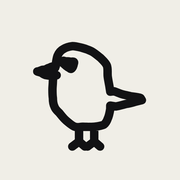
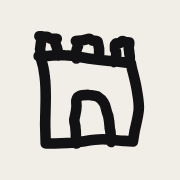
Rebrand the app as keep club

Changed region(s): [[0.1667, 0.1667, 0.8333, 0.8611]]

diff --git a/misc/munin/doodles-munin.js b/misc/munin/doodles-munin.js
@@ -1,12 +1,12 @@
-/* The shell's own doodles, drawn through the same rough.py pipeline as every
- * course set. `tower` is keep club's mark; the remaining fourteen ravens stay
- * as the doodle vocabulary for sections, groups, imported decks and the hoard.
+/* Munin's own doodles — the raven set, drawn through the same rough.py
+ * pipeline as every course set. Used by the shelf, by the hoard's own
+ * defaults, and as the theme for any course that brings no drawings of its
+ * own. perch is the app mark.
  *
  * Generated by design/raven-doodles/build.py — do not edit; edit the clean
  * geometry there and re-run it.
  */
 const MUNIN_DOODLE = {
-  tower: 'M6.7 11.8C7.5 11.7 9.6 11.4 11.3 11.5C12.9 11.5 14.9 12 16.5 12.2C18.2 12.4 19.9 12.6 21.2 12.7L23.8 13L24 14C24.2 14.8 24.7 16.6 24.9 17.9C25.1 19.2 25.4 20.5 25.3 21.8C25.2 23.1 24.7 24.9 24.5 25.9L24.2 27.8L22.6 27.7C21.6 27.7 19.9 27.4 18.4 27.4C16.8 27.4 15 27.8 13.3 28C11.7 28.1 9.7 28.2 8.7 28.2L7.7 28.2L7.6 24.7C7.6 23.3 7.7 21.1 7.7 19.6C7.7 18.1 7.7 16.8 7.5 15.5C7.4 14.2 6.9 12.4 6.7 11.8C6.6 11.2 6 11.8 6.7 11.8ZM7 11.6C6.9 11.4 6.7 11 6.7 10.8C6.6 10.5 6.6 10.2 6.7 9.9C6.7 9.7 6.8 9.4 6.8 9.1C6.9 8.7 6.9 8.2 6.9 8L6.5 7.9L7 7.9C7.2 8 7.6 8 7.9 8C8.2 8.1 8.4 8.3 8.7 8.4L9.6 8.4L9.8 8.4C9.8 8.5 9.5 8.8 9.5 9.1C9.5 9.3 9.7 9.7 9.8 10C9.9 10.3 10 10.6 10 10.9C10.1 11.2 10.1 11.5 10.1 11.6M13.5 12.1C13.5 11.9 13.5 11.3 13.5 11C13.5 10.6 13.5 10.5 13.6 10.3C13.6 10.1 13.8 10 13.8 9.8C13.8 9.5 13.6 9.1 13.5 8.9L13.4 8.8L14.4 8.7C14.8 8.7 15.6 8.4 15.9 8.4C16.2 8.4 16.2 8.6 16.5 8.7L17.3 8.8L17.5 8.9C17.6 9.2 17.7 9.9 17.8 10.3C17.8 10.6 17.8 10.7 17.8 11C17.8 11.2 17.8 11.4 17.8 11.6C17.7 11.8 17.5 12.1 17.4 12.2M20.6 12.8C20.7 12.6 21 12 21 11.7C21.1 11.3 21 11.1 21 10.9C21 10.7 20.9 10.6 20.8 10.4C20.8 10.1 20.8 9.7 20.8 9.5L21 9.3L21.7 9.2C21.9 9.1 22 8.9 22.2 8.8C22.4 8.8 22.6 9 22.8 9L23.5 9.1L23.5 9.3C23.5 9.5 23.4 9.8 23.4 10.1C23.4 10.4 23.5 10.7 23.5 11C23.5 11.2 23.6 11.5 23.6 11.8C23.6 12 23.6 12.3 23.6 12.4M13.5 28.2C13.4 27.9 13.4 26.9 13.4 26.3C13.4 25.8 13.3 25.3 13.3 24.9C13.2 24.5 13.1 24.2 13.1 23.7C13.2 23.1 13.5 22 13.5 21.4C13.6 20.8 13.4 20.4 13.5 20C13.6 19.6 13.8 19.3 14.1 19.2C14.5 19 15.1 19 15.7 19C16.2 19.1 17 19.1 17.5 19.3C18 19.6 18.4 20 18.7 20.5C19 20.9 19.1 21.6 19.2 22C19.3 22.4 19.4 22.6 19.5 22.9C19.6 23.2 19.6 23.6 19.7 24C19.7 24.4 19.8 24.7 19.8 25.2C19.9 25.6 20 26.2 20 26.7C20.1 27.2 20 27.7 20.1 27.9',
   perch: 'M9.7 9.7C9.8 9.7 9.9 9.9 10 10C10.2 10.1 10.3 10.3 10.5 10.4C10.7 10.6 10.9 10.7 11.1 10.8C11.3 10.9 11.3 11 11.5 11C11.6 11 11.8 10.8 11.9 10.6C12 10.5 12 10.3 12.1 10.1C12.1 9.9 12.3 9.5 12.2 9.4C12.1 9.2 11.8 9.3 11.5 9.3C11.3 9.3 11.1 9.2 10.8 9.2C10.6 9.2 10.4 9.2 10.2 9.2C10 9.2 9.8 9 9.7 9.1C9.6 9.2 9.7 9.6 9.7 9.7C9.7 9.8 9.6 9.6 9.7 9.7Z M7.8 10.5C7.9 10.1 8 8.7 8.3 7.9C8.6 7.2 9.1 6.6 9.7 6.3C10.3 5.9 11.1 5.7 11.9 5.6C12.6 5.6 13.3 5.8 14.1 6C14.9 6.2 15.7 6.5 16.5 6.9C17.2 7.3 17.9 7.9 18.5 8.4C19.1 9 19.7 9.5 20 10.2C20.3 11 20.1 12 20.2 12.8C20.3 13.6 20.5 14.5 20.6 15.1L20.8 16.4L21.6 16.3C22.1 16.4 22.9 16.8 23.6 17C24.3 17.2 25 17.3 25.7 17.5C26.5 17.6 27.5 17.7 28 17.9L28.3 18.4L26.7 18.8C26.1 19 25.4 19.2 24.6 19.3C23.8 19.5 22.7 19.8 22.1 19.9L20.8 19.7L20.8 20.5C20.7 21.1 20.5 22.2 20.2 22.8C20 23.4 19.8 23.8 19.3 24.2C18.7 24.5 17.9 24.6 17.1 24.7C16.3 24.8 15.1 24.7 14.3 24.7C13.5 24.7 13.1 25 12.4 24.7C11.8 24.5 11 23.8 10.3 23.2C9.7 22.7 9.2 22 8.7 21.4C8.2 20.9 7.8 20.6 7.6 20C7.3 19.4 7.2 18.6 7.2 17.9C7.1 17.3 7.1 16.6 7.1 15.9C7.1 15.2 7.2 14.6 7.2 13.9C7.3 13.2 7.3 12.4 7.3 11.8L7.7 10.3L7.8 10.5C7.8 10.6 7.7 11 7.8 10.5ZM7.9 10.3C7.8 10.3 7.2 10.4 6.9 10.5C6.6 10.6 6.4 10.7 6.1 10.8C5.9 10.9 5.7 11 5.5 11.1C5.3 11.2 5.1 11.2 4.8 11.2L3.7 11.6L3.5 11.6C3.7 11.7 4.2 11.8 4.4 11.9C4.7 12 4.9 12.3 5.3 12.4C5.6 12.5 5.9 12.5 6.3 12.6C6.6 12.6 7.1 12.6 7.4 12.6C7.7 12.6 8 12.5 8.1 12.5M13.4 25L13.4 28.2M17 25L17 28.2M13.4 28.2L11.8 29.4M13.4 28.2L14.8 29.4M17 28.2L15.4 29.4M17 28.2L18.4 29.4',
   peek: 'M14.6 10.3C14.6 10.4 14.8 10.6 15 10.8C15.1 10.9 15.3 11.2 15.5 11.3C15.8 11.5 16.1 11.7 16.3 11.8C16.5 11.9 16.7 12 16.8 12C17 11.9 17.2 11.7 17.3 11.5C17.4 11.3 17.5 11.1 17.5 10.8C17.6 10.6 17.7 10.2 17.6 10C17.5 9.9 17.1 9.9 16.9 9.9C16.6 9.8 16.3 9.7 16 9.7C15.8 9.7 15.4 9.7 15.2 9.7C15 9.7 14.7 9.5 14.6 9.6C14.5 9.7 14.6 10.2 14.6 10.3C14.6 10.5 14.5 10.3 14.6 10.3Z M4.2 15.2C5 15 7.4 14.1 9 14C10.6 13.9 12.2 14.4 13.9 14.7C15.5 15.1 17.5 15.8 19 16C20.6 16.3 21.9 16.2 23.3 16.2L27.4 15.6L27.5 15.7C27.7 16.3 28.6 18 28.6 19.4C28.6 20.8 27.8 23 27.4 24.1L26.6 26.4L24.8 26.4C23.9 26.4 22.6 26.2 21.2 26.1C19.7 26.1 18 26.2 16.3 26.3C14.6 26.3 12.8 26.4 11.2 26.5C9.6 26.6 7.8 26.5 6.7 26.6L4.7 27.1L4.4 24.5C4.4 23.3 4.3 21.3 4.3 19.8C4.2 18.2 4.2 16 4.2 15.2C4.2 14.5 3.4 15.4 4.2 15.2ZM9.8 18.3C9.9 18.3 10.2 18.3 10.6 18.3C10.9 18.3 11.2 18.4 11.6 18.5C12 18.5 12.4 18.6 12.8 18.7C13.2 18.7 13.6 18.7 13.9 18.8C14.2 18.9 14.3 19.1 14.6 19.2C14.8 19.3 15.1 19.5 15.4 19.6C15.8 19.8 16.2 19.9 16.6 20.1C16.9 20.3 17.2 20.6 17.6 20.7C17.9 20.9 18.3 21 18.7 21C19.1 21.1 19.7 21.1 19.9 21.1M9.3 21.7C9.4 21.6 9.7 21.3 10 21.3C10.3 21.3 10.5 21.4 10.8 21.5C11.1 21.6 11.5 21.8 11.7 21.9C11.9 22 12 22.1 12.2 22.1C12.3 22.2 12.6 22.2 12.8 22.2C13.1 22.2 13.3 22.3 13.6 22.2C14 22.2 14.5 21.9 14.8 21.9C15 22 14.8 22.2 15 22.3C15.2 22.4 15.5 22.5 15.7 22.5C16 22.6 16.5 22.7 16.7 22.7M12.3 14.9C12.3 14.4 12.2 13.1 12.2 12.4C12.3 11.6 12.3 10.9 12.5 10.3C12.7 9.6 13.1 9 13.6 8.5C14.1 7.9 14.8 7.3 15.6 6.9C16.3 6.6 17.4 6.3 18.3 6.3C19.2 6.3 20.2 6.5 20.9 6.9C21.6 7.2 22 7.8 22.4 8.4C22.8 9.1 22.9 10.1 23.1 10.9C23.4 11.8 23.6 12.6 23.8 13.4C24 14.2 24.2 15.4 24.3 15.8M12.4 9.3C12.2 9.3 11.7 9.2 11.3 9.2C10.9 9.3 10.5 9.5 10.2 9.6C9.8 9.8 9.3 10.2 9.1 10.2C8.8 10.3 8.9 9.9 8.6 9.9L7.7 10.2L7.6 10.3C7.8 10.4 8.3 10.6 8.6 10.6C9 10.7 9.4 10.6 9.7 10.7C10 10.7 10.3 10.9 10.5 11.1C10.8 11.2 10.9 11.5 11.2 11.6C11.6 11.7 12.2 11.6 12.4 11.6',
   flap: 'M10.8 16.6C10.9 16.7 11 16.8 11.2 16.9C11.3 17 11.4 17.2 11.6 17.4C11.7 17.5 12 17.7 12.1 17.8C12.3 18 12.4 18.1 12.5 18.1C12.6 18.1 12.7 17.9 12.8 17.8C12.9 17.7 12.9 17.5 12.9 17.3C13 17.1 13.1 16.7 13 16.6C12.9 16.5 12.6 16.6 12.3 16.5C12.1 16.5 11.9 16.4 11.7 16.3C11.5 16.3 11.2 16.3 11.1 16.3C10.9 16.2 10.8 16 10.7 16.1C10.7 16.1 10.8 16.5 10.8 16.6C10.8 16.7 10.7 16.6 10.8 16.6Z M9.1 18.2C9.2 17.9 9.6 16.8 10 16.4C10.3 15.9 10.7 15.6 11.1 15.4C11.6 15.2 12.2 15.2 12.8 15.2C13.4 15.2 13.9 15.4 14.6 15.5C15.3 15.6 16 15.7 16.8 15.9C17.5 16.1 18.2 16.3 19 16.6C19.7 16.8 20.5 16.9 21.1 17.2C21.7 17.6 22.1 18.2 22.6 18.6C23 19.1 23.4 19.5 23.9 19.9C24.3 20.2 24.8 20.5 25.3 20.7C25.8 20.9 26.4 20.7 26.8 20.8C27.3 20.9 27.9 21.3 28.2 21.4L28.6 21.7L27.4 21.8C26.9 21.9 26.1 22.3 25.4 22.5C24.8 22.7 24 22.8 23.6 22.9L23.3 22.9L22 23.8C21.5 24.1 21 24.2 20.4 24.3C19.8 24.4 19.2 24.5 18.6 24.6C17.9 24.6 17.2 24.9 16.6 24.9C15.9 24.9 15.4 24.9 14.7 24.6C14 24.4 13.2 24 12.5 23.5C11.8 23.1 10.9 22.3 10.4 21.8C9.9 21.2 10 20.8 9.7 20.2C9.5 19.6 9.2 18.5 9.1 18.2C8.9 17.9 8.9 18.5 9.1 18.2ZM9.1 18.2C8.9 18.3 8.2 18.4 7.8 18.6C7.5 18.7 7.1 18.9 6.8 19.1C6.4 19.2 6.1 19.4 5.7 19.6C5.4 19.8 5 19.9 4.6 20L3.3 20.5L3.2 20.5C3.4 20.5 4.1 20.5 4.5 20.5C4.9 20.5 5.2 20.7 5.6 20.7C6 20.8 6.4 20.7 6.9 20.7C7.3 20.7 7.8 20.7 8.1 20.6C8.5 20.6 8.8 20.6 8.9 20.6M12.4 15.2C12.1 14.9 11.4 13.7 11 13.1C10.6 12.4 10.3 11.9 10.1 11.4C9.9 10.8 9.9 10.4 9.8 9.8C9.8 9.1 9.6 8.4 9.7 7.7C9.8 7 10.1 6.1 10.2 5.6L10.5 4.8L11.8 5.7C12.1 6.2 12 7.3 12.2 8C12.4 8.8 12.7 9.5 12.9 10.2C13.1 10.9 13.4 11.5 13.6 12.2C13.8 13 14.1 14.2 14.2 14.6M18.4 16.8C18.6 16.4 19.3 15.3 19.5 14.5C19.8 13.8 19.9 13.2 19.9 12.5C20 11.9 20 11.4 19.9 10.7C19.9 10.1 19.8 9.4 19.7 8.6C19.6 7.9 19.3 6.9 19.2 6.4L19 5.6L18 6.5C17.7 7 17.4 7.8 17.2 8.5C16.9 9.2 16.7 9.9 16.6 10.6C16.5 11.3 16.6 12.1 16.6 12.8C16.6 13.5 16.7 14.5 16.7 14.8',

diff --git a/web/index.html b/web/index.html
@@ -6,8 +6,8 @@
 <!-- One tag, set from JS: the app's own light/dark/auto toggle has to win over
      the system preference here too, or the browser bar and the page disagree. -->
 <meta name="theme-color" id="theme-color" content="#f0eee7">
-<meta name="description" content="Munin — spaced repetition that doesn't make you learn the app first. Pick a course, keep your progress on your device.">
-<title>Munin</title>
+<meta name="description" content="keep club — spaced repetition that doesn't make you learn the app first. Pick a course, keep your progress on your device.">
+<title>keep club</title>
 <link rel="manifest" href="manifest.webmanifest">
 <link rel="icon" href="icon-192.png" sizes="192x192">
 <link rel="apple-touch-icon" sizes="180x180" href="icon-180.png">
@@ -15,7 +15,7 @@
 <meta name="mobile-web-app-capable" content="yes">
 <!-- The home-screen label. Without it iOS uses <title>, which is too long and
      gets elided to "RYA Day Ski…" under the icon. -->
-<meta name="apple-mobile-web-app-title" content="Munin">
+<meta name="apple-mobile-web-app-title" content="keep club">
 <!-- Deliberately `default`, not `black-translucent`. Since iOS 15 the standalone
      status bar takes its colour from `theme-color` above, which this app rewrites
      when you switch theme — so it already follows the paper into dark mode.
@@ -356,7 +356,7 @@
   <p class="lb-hint" id="lb-hint">Pinch or double-tap to zoom · drag to pan</p>
 </div>
 
-<!-- The loading screen. Munin's raven is the default scene and it is markup,
+<!-- The loading screen. keep club's tower is the default scene and it is markup,
      not something JavaScript fills in: this screen exists to cover the window
      before app.js has run, so anything drawn from app.js is drawn exactly too
      late. A course brings its own scene as courses/<id>/boot.html + boot.css,
@@ -367,7 +367,7 @@
   <div class="boot-scene" id="boot-scene" data-from="munin" aria-hidden="true">
     <svg class="boot-raven" viewBox="0 0 32 32" fill="none" stroke="currentColor"
       stroke-width="2" stroke-linecap="round" stroke-linejoin="round">
-      <path pathLength="1" d="M9.7 9.7C9.8 9.7 9.9 9.9 10 10C10.2 10.1 10.3 10.3 10.5 10.4C10.7 10.6 10.9 10.7 11.1 10.8C11.3 10.9 11.3 11 11.5 11C11.6 11 11.8 10.8 11.9 10.6C12 10.5 12 10.3 12.1 10.1C12.1 9.9 12.3 9.5 12.2 9.4C12.1 9.2 11.8 9.3 11.5 9.3C11.3 9.3 11.1 9.2 10.8 9.2C10.6 9.2 10.4 9.2 10.2 9.2C10 9.2 9.8 9 9.7 9.1C9.6 9.2 9.7 9.6 9.7 9.7C9.7 9.8 9.6 9.6 9.7 9.7Z M7.8 10.5C7.9 10.1 8 8.7 8.3 7.9C8.6 7.2 9.1 6.6 9.7 6.3C10.3 5.9 11.1 5.7 11.9 5.6C12.6 5.6 13.3 5.8 14.1 6C14.9 6.2 15.7 6.5 16.5 6.9C17.2 7.3 17.9 7.9 18.5 8.4C19.1 9 19.7 9.5 20 10.2C20.3 11 20.1 12 20.2 12.8C20.3 13.6 20.5 14.5 20.6 15.1L20.8 16.4L21.6 16.3C22.1 16.4 22.9 16.8 23.6 17C24.3 17.2 25 17.3 25.7 17.5C26.5 17.6 27.5 17.7 28 17.9L28.3 18.4L26.7 18.8C26.1 19 25.4 19.2 24.6 19.3C23.8 19.5 22.7 19.8 22.1 19.9L20.8 19.7L20.8 20.5C20.7 21.1 20.5 22.2 20.2 22.8C20 23.4 19.8 23.8 19.3 24.2C18.7 24.5 17.9 24.6 17.1 24.7C16.3 24.8 15.1 24.7 14.3 24.7C13.5 24.7 13.1 25 12.4 24.7C11.8 24.5 11 23.8 10.3 23.2C9.7 22.7 9.2 22 8.7 21.4C8.2 20.9 7.8 20.6 7.6 20C7.3 19.4 7.2 18.6 7.2 17.9C7.1 17.3 7.1 16.6 7.1 15.9C7.1 15.2 7.2 14.6 7.2 13.9C7.3 13.2 7.3 12.4 7.3 11.8L7.7 10.3L7.8 10.5C7.8 10.6 7.7 11 7.8 10.5ZM7.9 10.3C7.8 10.3 7.2 10.4 6.9 10.5C6.6 10.6 6.4 10.7 6.1 10.8C5.9 10.9 5.7 11 5.5 11.1C5.3 11.2 5.1 11.2 4.8 11.2L3.7 11.6L3.5 11.6C3.7 11.7 4.2 11.8 4.4 11.9C4.7 12 4.9 12.3 5.3 12.4C5.6 12.5 5.9 12.5 6.3 12.6C6.6 12.6 7.1 12.6 7.4 12.6C7.7 12.6 8 12.5 8.1 12.5M13.4 25L13.4 28.2M17 25L17 28.2M13.4 28.2L11.8 29.4M13.4 28.2L14.8 29.4M17 28.2L15.4 29.4M17 28.2L18.4 29.4"/>
+      <path pathLength="1" d="M6.7 11.8C7.5 11.7 9.6 11.4 11.3 11.5C12.9 11.5 14.9 12 16.5 12.2C18.2 12.4 19.9 12.6 21.2 12.7L23.8 13L24 14C24.2 14.8 24.7 16.6 24.9 17.9C25.1 19.2 25.4 20.5 25.3 21.8C25.2 23.1 24.7 24.9 24.5 25.9L24.2 27.8L22.6 27.7C21.6 27.7 19.9 27.4 18.4 27.4C16.8 27.4 15 27.8 13.3 28C11.7 28.1 9.7 28.2 8.7 28.2L7.7 28.2L7.6 24.7C7.6 23.3 7.7 21.1 7.7 19.6C7.7 18.1 7.7 16.8 7.5 15.5C7.4 14.2 6.9 12.4 6.7 11.8C6.6 11.2 6 11.8 6.7 11.8ZM7 11.6C6.9 11.4 6.7 11 6.7 10.8C6.6 10.5 6.6 10.2 6.7 9.9C6.7 9.7 6.8 9.4 6.8 9.1C6.9 8.7 6.9 8.2 6.9 8L6.5 7.9L7 7.9C7.2 8 7.6 8 7.9 8C8.2 8.1 8.4 8.3 8.7 8.4L9.6 8.4L9.8 8.4C9.8 8.5 9.5 8.8 9.5 9.1C9.5 9.3 9.7 9.7 9.8 10C9.9 10.3 10 10.6 10 10.9C10.1 11.2 10.1 11.5 10.1 11.6M13.5 12.1C13.5 11.9 13.5 11.3 13.5 11C13.5 10.6 13.5 10.5 13.6 10.3C13.6 10.1 13.8 10 13.8 9.8C13.8 9.5 13.6 9.1 13.5 8.9L13.4 8.8L14.4 8.7C14.8 8.7 15.6 8.4 15.9 8.4C16.2 8.4 16.2 8.6 16.5 8.7L17.3 8.8L17.5 8.9C17.6 9.2 17.7 9.9 17.8 10.3C17.8 10.6 17.8 10.7 17.8 11C17.8 11.2 17.8 11.4 17.8 11.6C17.7 11.8 17.5 12.1 17.4 12.2M20.6 12.8C20.7 12.6 21 12 21 11.7C21.1 11.3 21 11.1 21 10.9C21 10.7 20.9 10.6 20.8 10.4C20.8 10.1 20.8 9.7 20.8 9.5L21 9.3L21.7 9.2C21.9 9.1 22 8.9 22.2 8.8C22.4 8.8 22.6 9 22.8 9L23.5 9.1L23.5 9.3C23.5 9.5 23.4 9.8 23.4 10.1C23.4 10.4 23.5 10.7 23.5 11C23.5 11.2 23.6 11.5 23.6 11.8C23.6 12 23.6 12.3 23.6 12.4M13.5 28.2C13.4 27.9 13.4 26.9 13.4 26.3C13.4 25.8 13.3 25.3 13.3 24.9C13.2 24.5 13.1 24.2 13.1 23.7C13.2 23.1 13.5 22 13.5 21.4C13.6 20.8 13.4 20.4 13.5 20C13.6 19.6 13.8 19.3 14.1 19.2C14.5 19 15.1 19 15.7 19C16.2 19.1 17 19.1 17.5 19.3C18 19.6 18.4 20 18.7 20.5C19 20.9 19.1 21.6 19.2 22C19.3 22.4 19.4 22.6 19.5 22.9C19.6 23.2 19.6 23.6 19.7 24C19.7 24.4 19.8 24.7 19.8 25.2C19.9 25.6 20 26.2 20 26.7C20.1 27.2 20 27.7 20.1 27.9"/>
     </svg>
   </div>
   <p id="boot-line">Loading…</p>

diff --git a/web/munin.js b/web/munin.js
@@ -42,7 +42,7 @@ const MUNIN = {
   /* Munin's own theme: the default for every slot a course leaves empty. */
   theme: {
     accent: { light: '#0e3f39', dark: '#35917f', inkLight: '#fffdf7', inkDark: '#141519' },
-    boot: { art: 'perch', line: 'Loading…' },
+    boot: { art: 'tower', line: 'Loading…' },
     fallback: 'perch',
     /* Ten of them, named. The frieze is ten drawings and no more — that is
      * what fits a 320px screen without a sideways scrollbar — so it cannot be
@@ -593,7 +593,7 @@ async function startCourse(c, loadDoodles) {
   injectAccent(c.accent);
   const line = document.getElementById('boot-line');
   if (line && c.boot.line) line.textContent = c.boot.line;
-  document.title = 'Munin — ' + c.title;
+  document.title = 'keep club — ' + c.title;
   // A course that draws figures brings the stylesheet for them: its own nouns
   // — rigging, fenders, pontoons — used to be fifty rules in app.css, applied
   // over every deck including the ones about German verbs.
@@ -1018,7 +1018,7 @@ function localTile(d) {
 async function renderShelf(asOverlay, say) {
   if (!asOverlay) {
     injectAccent(MUNIN.theme.accent);
-    document.title = 'Munin';
+    document.title = 'keep club';
   }
   ensureShelfCss();
 
@@ -1063,13 +1063,13 @@ async function renderShelf(asOverlay, say) {
     el.setAttribute('aria-label', 'Courses');
   }
   el.innerHTML = `<div class="shelf-inner">
-    <div class="shelf-mark">${muninDoodle('perch')}<h1>munin</h1>
+    <div class="shelf-mark">${muninDoodle('tower')}<h1>keep club</h1>
       <button type="button" class="icon-btn" id="shelf-theme" aria-label="Switch colour theme"
         title="Switch colour theme"><span aria-hidden="true" data-theme-glyph></span></button>
       ${asOverlay ? `<button type="button" class="icon-btn shelf-x" id="shelf-x"
         aria-label="Close" title="Close">✕</button>` : ''}
     </div>
-    <p class="shelf-sub">a friendly raven who remembers for you</p>
+    <p class="shelf-sub">spaced repetition that doesn't make you learn the app first</p>
     <div class="shelf-tiles">
       ${say ? `<div class="shelf-tile broken">${muninDoodle('peek')}
         <span><b>${escHtml(say)}</b><small>pick one below to carry on</small></span></div>` : ''}
@@ -1248,7 +1248,7 @@ function mountShelfButton(c) {
   const b = document.createElement('button');
   b.type = 'button';
   b.className = 'shelf-btn';
-  b.innerHTML = muninDoodle('perch') + '<span>courses</span>';
+  b.innerHTML = muninDoodle('tower') + '<span>courses</span>';
   b.addEventListener('click', async () => {
     if (shelfOpening || document.querySelector('.shelf.on[role="dialog"]')) return;
     shelfOpening = true;

diff --git a/misc/munin/build.py b/misc/munin/build.py
@@ -1,6 +1,6 @@
 #!/usr/bin/env python3
-"""The shell doodle set — keep club's tower plus the raven vocabulary — drawn
-through the same `rough.py` every course set goes through.
+"""Munin's own doodle set — the ravens — drawn clean and re-drawn by the same
+`rough.py` every course set goes through, so Munin's line matches the courses'.
 
     python3 design/raven-doodles/build.py            # check: does it match what ships
     python3 design/raven-doodles/build.py --write    # write web/doodles-munin.js
@@ -31,9 +31,6 @@ sys.path.insert(0, os.path.join(REPO, "content", "day-skipper", "src"))
 import rough  # noqa: E402
 
 OUT = os.path.join(REPO, "web", "doodles-munin.js")
-with open(os.path.join(REPO, "design", "naming", "marks2.json"),
-          encoding="utf-8") as marks_file:
-    BRAND = {"tower": json.load(marks_file)["keep"]["tower"]["d"]}
 
 # 32x32 boxes, same conventions as the course sets' doodles.py.
 SOURCE = {
@@ -126,9 +123,10 @@ DOTS = {
     "day": [[16, 16, 5.2]],
 }
 
-HEAD = """/* The shell's own doodles, drawn through the same rough.py pipeline as every
- * course set. `tower` is keep club's mark; the remaining fourteen ravens stay
- * as the doodle vocabulary for sections, groups, imported decks and the hoard.
+HEAD = """/* Munin's own doodles — the raven set, drawn through the same rough.py
+ * pipeline as every course set. Used by the shelf, by the hoard's own
+ * defaults, and as the theme for any course that brings no drawings of its
+ * own. perch is the app mark.
  *
  * Generated by design/raven-doodles/build.py — do not edit; edit the clean
  * geometry there and re-run it.
@@ -179,17 +177,16 @@ def render(paths):
 if __name__ == "__main__":
     paths = build()
     glyphs = build(GLYPHS)
-    doodles = {**BRAND, **paths}
-    both = {**doodles, **glyphs}
+    both = {**paths, **glyphs}
     line = lambda n, d: "  %s: '%s',\n" % (n, d)  # noqa: E731
-    js = (HEAD + "".join(line(n, d) for n, d in doodles.items())
+    js = (HEAD + "".join(line(n, d) for n, d in paths.items())
           + MID + "".join(line(n, d) for n, d in glyphs.items()) + TAIL)
 
     if "--png" in sys.argv:
         html = os.path.join(HERE, "_sheet.html")
         png = os.path.join(HERE, "_sheet.png")
         with open(html, "w", encoding="utf-8") as f:
-            f.write(render({**doodles, **glyphs}))
+            f.write(render({**paths, **glyphs}))
         chrome = os.path.expanduser(
             "~/.cache/ms-playwright/chromium_headless_shell-1217/"
             "chrome-headless-shell-linux64/chrome-headless-shell")
@@ -202,14 +199,12 @@ if __name__ == "__main__":
     if "--write" in sys.argv:
         with open(OUT, "w", encoding="utf-8") as f:
             f.write(js)
-        print("wrote  :", OUT, "(%d brand mark + %d ravens + %d glyphs)"
-              % (len(BRAND), len(paths), len(glyphs)))
+        print("wrote  :", OUT, "(%d ravens + %d glyphs)" % (len(paths), len(glyphs)))
     else:
         with open(OUT, encoding="utf-8") as f:
             shipped = f.read()
         same = [n for n, d in both.items() if line(n, d) in shipped]
-        print("drawings:", len(both), "(%d brand mark + %d ravens + %d glyphs)"
-              % (len(BRAND), len(paths), len(glyphs)),
+        print("drawings:", len(both), "(%d ravens + %d glyphs)" % (len(paths), len(glyphs)),
               " already shipped byte-identical:", len(same))
         missing = [n for n in both if n not in same]
         if missing:

diff --git a/misc/munin/README.md b/misc/munin/README.md
@@ -1,0 +1,28 @@
+# Munin — the raven identity, kept
+
+The app was called **Munin** from its first commit until 28 July 2026, after Odin's raven of
+memory: the one who flies out each day and comes back each night. It is now **keep club**
+(see [../../naming-domains.md](../../naming-domains.md)), and the bird is not part of the new
+identity.
+
+Nothing here is loaded by the app. This folder exists because the drawings were good and a
+generator plus fourteen hand-tuned paths is not the sort of thing to leave in a diff.
+
+| file | what it is |
+|---|---|
+| `doodles-munin.js` | the shipped set as of the rename: fourteen ravens + the two theme glyphs |
+| `build.py` | the generator — clean 32×32 geometry through the seeded `rough.py`, which is what gave them their wobble |
+| `ravens.png` | all sixteen rendered, in ink teal, so you can see them without running anything |
+| `icon-*.png` | the app icons that carried the bird |
+
+**The fourteen, and what each was for.** `perch` was the logo — the plain standing raven.
+`peek` looked over the top edge of a flashcard. `flap`, `carry` and `roost` flew, carried a card
+and slept. `hoard` bent over a shiny thing, which is what the achievement set was named after.
+`puff`, `strut`, `quill` and `bow` filled out the frieze — ten drawings, never more, because ten
+is what fits a 320px screen. `prints`, `nest`, `worm` and `shell` were added on 28 July so the
+hoard's fourteen slots were fourteen distinct drawings; `nest` and `worm` each took four rounds
+to read right at small sizes.
+
+**To bring one back**, copy the path into `web/doodles-munin.js` — the format is unchanged — or
+run `build.py` against the geometry in it. `rough.py` is seeded, so a rebuild is byte-identical
+to what shipped.
